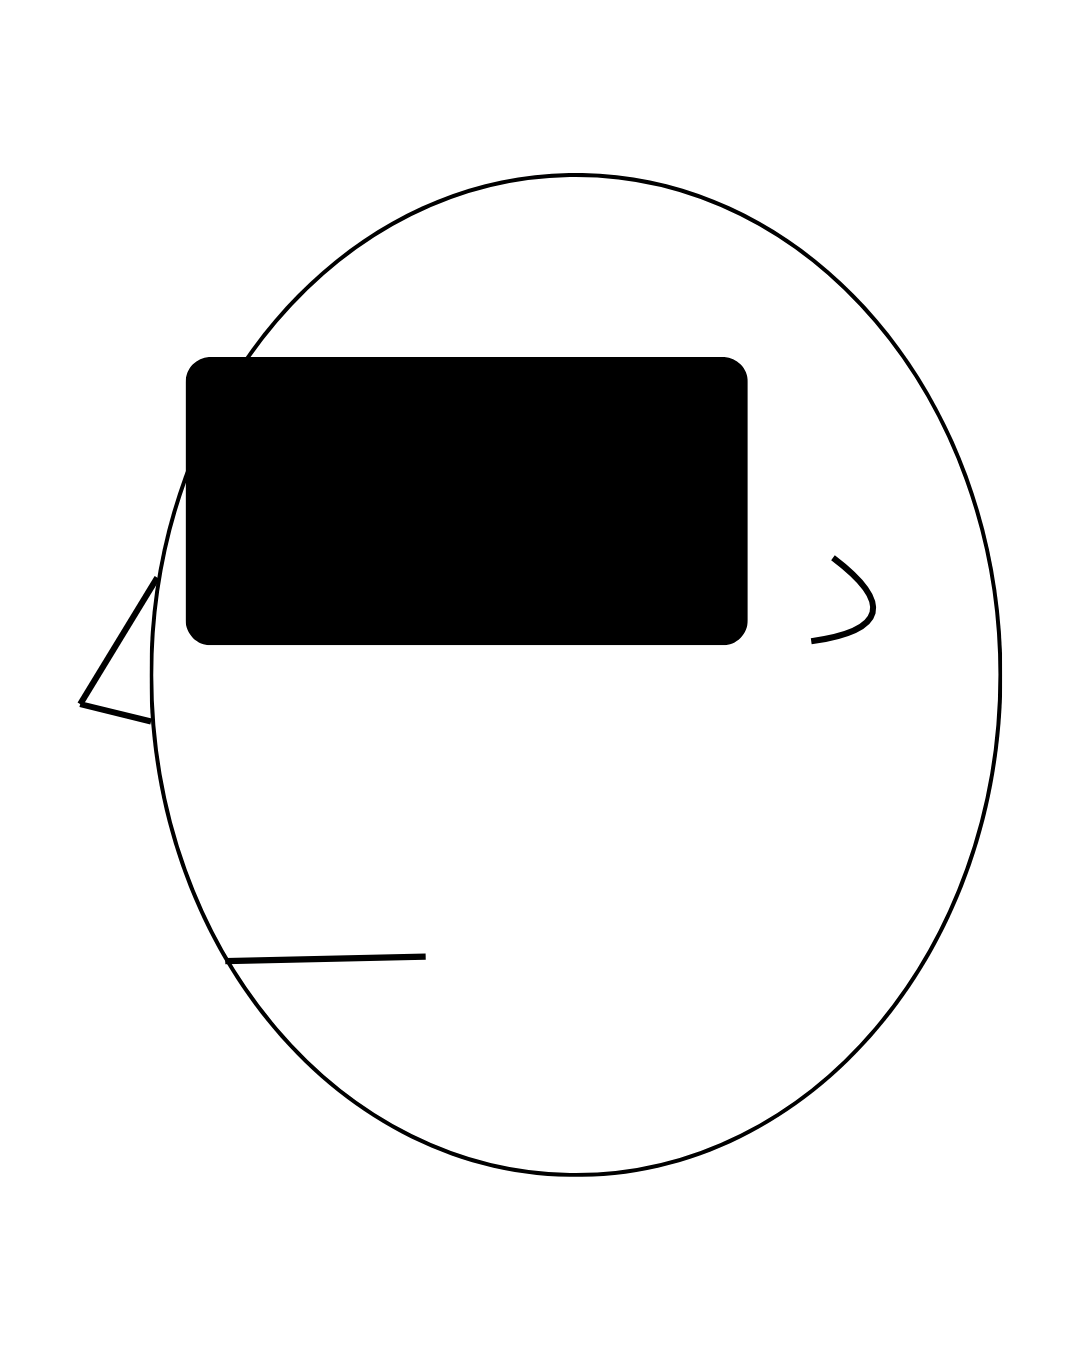
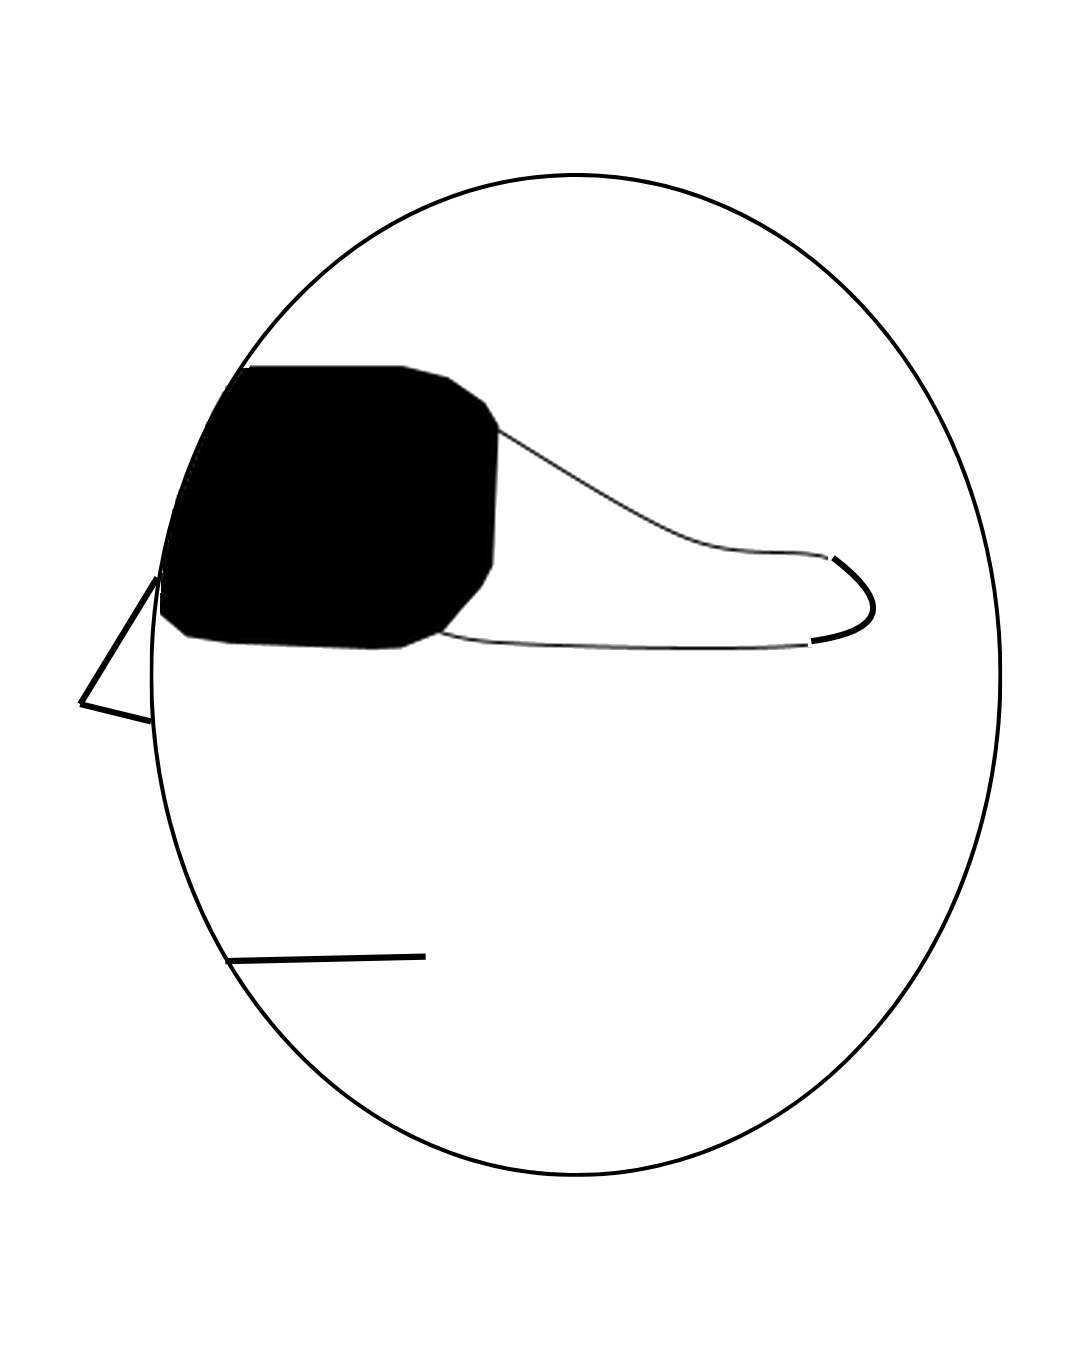
Use the band blindfold face in star-inperson (v1.1.0)
Blindfolded face is now the hand-drawn band blindfold (BlindfoldDrawingRight.png)
laid over the crisp open face by tools/make_blindfold.py, so open and blindfold
images differ only by the blindfold. T17 checks pixel identity outside the band
rows; probe points and checksums updated; bench.html exempted from the
fingerprint tree check. Version 1.0.0 -> 1.1.0.

Changed region(s): [[0.1222, 0.2489, 0.7639, 0.4978], [0.1833, 0.4667, 0.2139, 0.4978]]

diff --git a/static/star-inperson/js/config.js b/static/star-inperson/js/config.js
@@ -12,7 +12,7 @@
 export const CONFIG = {
   meta: {
     experimentName: 'star-inperson',   // POST /data "experiment"; suffixed by mode in params.js (-grating/-pilot/-test)
-    experimentVersion: '1.0.0',       // bump on ANY change to static/star-inperson/; also git tag star-inperson-v1.0.0
+    experimentVersion: '1.1.0',       // bump on ANY change to static/star-inperson/; 1.1.0 (2026-09-30): band blindfold face
   },
 
   display: {
@@ -67,10 +67,10 @@ export const CONFIG = {
     // contentBox = [x0, y0, x1, y1) of opaque pixels (alpha > 32) in source px; eyePx = pupil centre (source px)
[7 lines of base64/hex data omitted]
-    blindfoldProbePx: { R: [360, 620], L: [719, 620] },  // source px inside the blindfold, transparent in the open face (T19)
+    blindfoldProbePx: { R: [700, 445], L: [379, 445] },  // source px inside the band blindfold, transparent in the open face (T19)
   },
 
   grating: {                          // adaptor 'grating' only (Exp 1 rig check), p2

diff --git a/tools/make_blindfold.py b/tools/make_blindfold.py
@@ -1,0 +1,67 @@
+"""Build static/star-inperson/img/face_blindfold_{R,L}.png (2026-09-30).
+
+Source: the open-eyed face (static/star-inperson/img/face_open_R.png, a byte copy of
+static/star/img/BlankFaceLookingRight (1).png) plus the hand-drawn band blindfold from
+static/star/img/BlindfoldDrawingRight.png (384x480, same head drawing at lower resolution).
+Only the blindfold (filled band over the eye + strap to the ear) is taken from the drawing,
+upscaled to 1080x1350 and laid over the open face, so the open and blindfold images differ
+only by the blindfold: every opaque pixel of the open face stays opaque, and the head outline,
+nose, mouth and ear stay pixel-identical. L is the exact mirror of R.
+
+Usage (repo root): python3 tools/make_blindfold.py [path/to/BlindfoldDrawingRight.png]
+"""
+import sys
+import numpy as np
+from PIL import Image
+
+DRAWING = sys.argv[1] if len(sys.argv) > 1 else 'static/star/img/BlindfoldDrawingRight.png'
+OPEN_R = 'static/star-inperson/img/face_open_R.png'
+BAND_ROWS = (350, 666)      # rows (1080x1350 px) that contain the band and strap; outside them nothing changes
+BAND_COLS = (150, 960)
+LINE_TOL = 3                # drawing ink within this many px of an open-face line is the shared head drawing
+CLOSE_R = 7                 # closing radius that fills the band around the (covered) open eye lines
+
+
+def shift_or(m, r):
+    out = m.copy()
+    for dy in range(-r, r + 1):
+        for dx in range(-r, r + 1):
+            out |= np.roll(np.roll(m, dy, 0), dx, 1)
+    return out
+
+
+def erode(m, r):
+    return ~shift_or(~m, r)
+
+
+def main():
+    op = Image.open(OPEN_R).convert('RGBA')
+    dr = Image.open(DRAWING).convert('RGBA').resize(op.size, Image.LANCZOS)
+    o, d = np.asarray(op).copy(), np.asarray(dr)
+    open_ink, draw_ink = o[..., 3] > 32, d[..., 3] > 32
+    added = draw_ink & ~shift_or(open_ink, LINE_TOL)             # blindfold-only ink
+    box = np.zeros_like(added)
+    box[BAND_ROWS[0]:BAND_ROWS[1], BAND_COLS[0]:BAND_COLS[1]] = True
+    mask = erode(shift_or(added & box, CLOSE_R), CLOSE_R) & box   # fill gaps around covered eye lines
+    mask &= shift_or(draw_ink, 1)                                  # never paint outside the drawn blindfold
+    # the solid band itself (drawing fully opaque, wider than any line): paint all of it, so no open-face
+    # pixel (e.g. the anti-aliased pupil edge) shows through the blindfold
+    band = shift_or(erode(d[..., 3] == 255, 6), 6) & box
+    mask |= shift_or(band, 6) & draw_ink       # reaches the head outline, as in the drawing
+    # alpha-composite the drawing over the open face inside the mask; alpha can only increase
+    da = d[..., 3:4] / 255.0
+    oa = o[..., 3:4] / 255.0
+    out_a = da + oa * (1 - da)
+    rgb = np.where(out_a > 0, (d[..., :3] * da + o[..., :3] * oa * (1 - da)) / np.maximum(out_a, 1e-6), 0)
+    comp = np.concatenate([rgb, out_a * 255], axis=2).round().astype(np.uint8)
+    res = o.copy()
+    res[mask] = comp[mask]
+    res[..., 3] = np.maximum(res[..., 3], o[..., 3])
+    R = Image.fromarray(res, 'RGBA')
+    R.save('static/star-inperson/img/face_blindfold_R.png', optimize=True)
+    R.transpose(Image.FLIP_LEFT_RIGHT).save('static/star-inperson/img/face_blindfold_L.png', optimize=True)
+    print('added pixels:', int(mask.sum()))
+
+
+if __name__ == '__main__':
+    main()

diff --git a/docs/star-inperson/SPEC.md b/docs/star-inperson/SPEC.md
@@ -239,8 +239,9 @@ static/star-inperson/
   img/
     face_open_R.png       byte copy of static/star/img/BlankFaceLookingRight (1).png          (§3.4)
     face_open_L.png       byte copy of static/star/img/BlankFaceLookingLeft (1).png
-    face_blindfold_R.png  byte copy of static/star/img/BlankFaceLookingRightBlindfold (1).png
-    face_blindfold_L.png  byte copy of static/star/img/BlankFaceLookingLeftBlindfold (1).png
+    face_blindfold_R.png  face_open_R.png + band blindfold from static/star/img/BlindfoldDrawingRight.png
+                          (built by tools/make_blindfold.py; changed 2026-09-30, v1.1.0, at Greg's request)
+    face_blindfold_L.png  exact mirror of face_blindfold_R.png
     tree.png              byte copy of static/star/img/Tree.png
   js/
     config.js           CONFIG: every parameter, grouped, units + source comments; pilot preset         ~230
@@ -324,10 +325,10 @@ export const CONFIG = {
   images: {                           // byte copies; sha256 verified at load (§3.4)
[7 lines of base64/hex data omitted]
-    blindfoldProbePx: { R: [360, 620], L: [719, 620] },  // inside blindfold rect, transparent in open image (tests)
+    blindfoldProbePx: { R: [700, 445], L: [379, 445] },  // inside blindfold rect, transparent in open image (tests)
   },
   grating: {                          // adaptor 'grating' only (Exp 1 rig check), p2
     gratingPeriodDeg: 0.8, gratingWidthDeg: 14.7, gratingHeightDeg: 5.7,

diff --git a/docs/star-inperson/BUILD_NOTES.md b/docs/star-inperson/BUILD_NOTES.md
@@ -494,3 +494,17 @@ Round-2 fixes (2026-09-30, from `/root/claude/graziano-lab-verify/round2/REPORT.
 - **Analysis size:** the SPEC §3.2 budget for `analysis/star_inperson.py` is raised to ~650 lines (one stdlib file
   is kept deliberately so the lab can run it anywhere).
 - Results after round-2 fixes (2026-09-30): Node 46/46, Python 14/14, 0 failures.
+
+## 10. Changes after the first on-device pilot (2026-09-30)
+
+- **Blindfold face (v1.1.0).** At Greg's request the blindfolded face is now the hand-drawn band blindfold
+  (`static/star/img/BlindfoldDrawingRight.png`, Dec 2025) instead of the large rectangle. The drawing is 384x480, so
+  `tools/make_blindfold.py` lays only its blindfold (band over the eye + strap to the ear) over the crisp 1080x1350
+  open face: every other pixel is identical to the open face (T17 now checks this outside rows 350–666), every
+  opaque open-face pixel stays opaque, L = exact mirror of R. `blindfoldProbePx` moved to R [700,445] / L [379,445].
+  Data from v1.0.0 (the first pilot) used the rectangle blindfold.
+- **`bench.html`.** Standalone render benchmark (not part of the experiment, not fingerprinted; T30 exempts it).
+  The first pilot ran the dots at ~59 Hz on the iPad Pro while fixation/adaptor held 120 Hz (JS work ≤ 1 ms per
+  frame, so the cost is Safari rasterising the dot path on the full-screen DPR-2 canvas). The benchmark times five
+  drawing methods on the device to choose a renderer that holds 120 Hz.
+- Tests after these changes: Node 46/46, Python 14/14.
